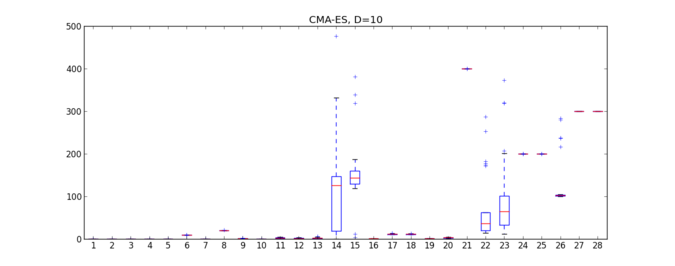
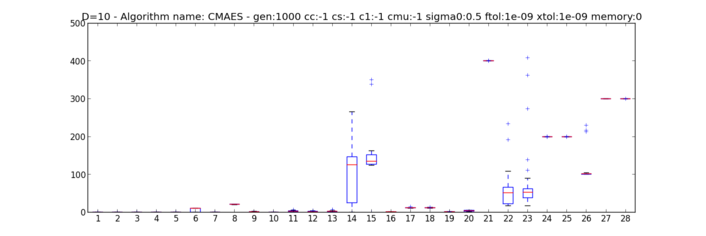
Ticket #22: Cec2013 tutorial. Settings have been changed to match the competition official document. All runs have been remade and graphs updated

diff --git a/src/problem/cec2013.cpp b/src/problem/cec2013.cpp
@@ -72,7 +72,7 @@ cec2013::cec2013(unsigned int fun_id, problem::base::size_type d, const std::str
 	{
 	std::ifstream data_file(data_file_name.c_str());
 	if (!data_file.is_open()) {
-		pagmo_throw(io_error, std::string("Error: file not found. I was looking for ").append(data_file_name.c_str()));
+		pagmo_throw(io_error, std::string("Error: file not found. I was looking for (") + data_file_name.c_str() + ")");
 	}
 	std::istream_iterator<double> start(data_file), end;
 	m_rotation_matrix = std::vector<double>(start,end);

diff --git a/src/problem/mga_incipit.h b/src/problem/mga_incipit.h
@@ -42,8 +42,8 @@ namespace pagmo{ namespace problem {
 /**
  *
  * A PyGMO global optimization problem (box-bounded, continuous) representing the gtoc6 preliminary trajectory capture
-	
- * Decision vector:
+ *
+Decision vector:
  * [t0,u,v,T0] + [beta1, rp1/rP1, eta1,T1] + .... 
  * 
  * @author Dario Izzo (dario.izzo@esa.int)

diff --git a/doc/sphinx/examples/example6.rst b/doc/sphinx/examples/example6.rst
@@ -12,12 +12,12 @@ in the folder called input_files. We will assume, in the rest of this tutorial, 
 files in the directory ~/Documents/input_files/.
 
 Let us start with trying out for problem dimension D=2 the algorithm CMA-ES. As the competition rules
-allow D * 15000 function evaluation, we choose a population of 60 with 500 generation.
+allow D * 10000 function evaluation, we choose a population of 50 with 400 generations.
 
 .. code-block:: python
 
 	from PyGMO import * 
-	dir = "~/Documents/input_data/"
+	dir = "/home/my_user/Documents/input_data/"
 	algo = algorithm.cmaes(500,xtol=1e-9,ftol=1e-9)
 	D = 2
 	error = []
@@ -45,13 +45,13 @@ Which produces the output below.
 From the image above we see immediately that the problems from 1 to 20 are significantly easier to solve for CMA-ES than the last eight.
 
 We may now try to do the same with a larger number of dimensions, say D=10. As we can now take advantage of an increased number of
-function evaluations (150000), we set up CMA-ES differently (i.e. we use a larger population and more maximum iterations).
+function evaluations (100000), we set up CMA-ES differently (i.e. we use a larger population and more maximum iterations).
 
 .. code-block:: python
 
 	from PyGMO import * 
-	dir = "~/Documents/input_data/"
-	algo = algorithm.cmaes(1500,xtol=1e-9,ftol=1e-9)
+	dir = "/home/my_user/Documents/input_data/"
+	algo = algorithm.cmaes(1000,xtol=1e-9,ftol=1e-9)
 	D = 10
 	error = []
 	for i in range(28):
